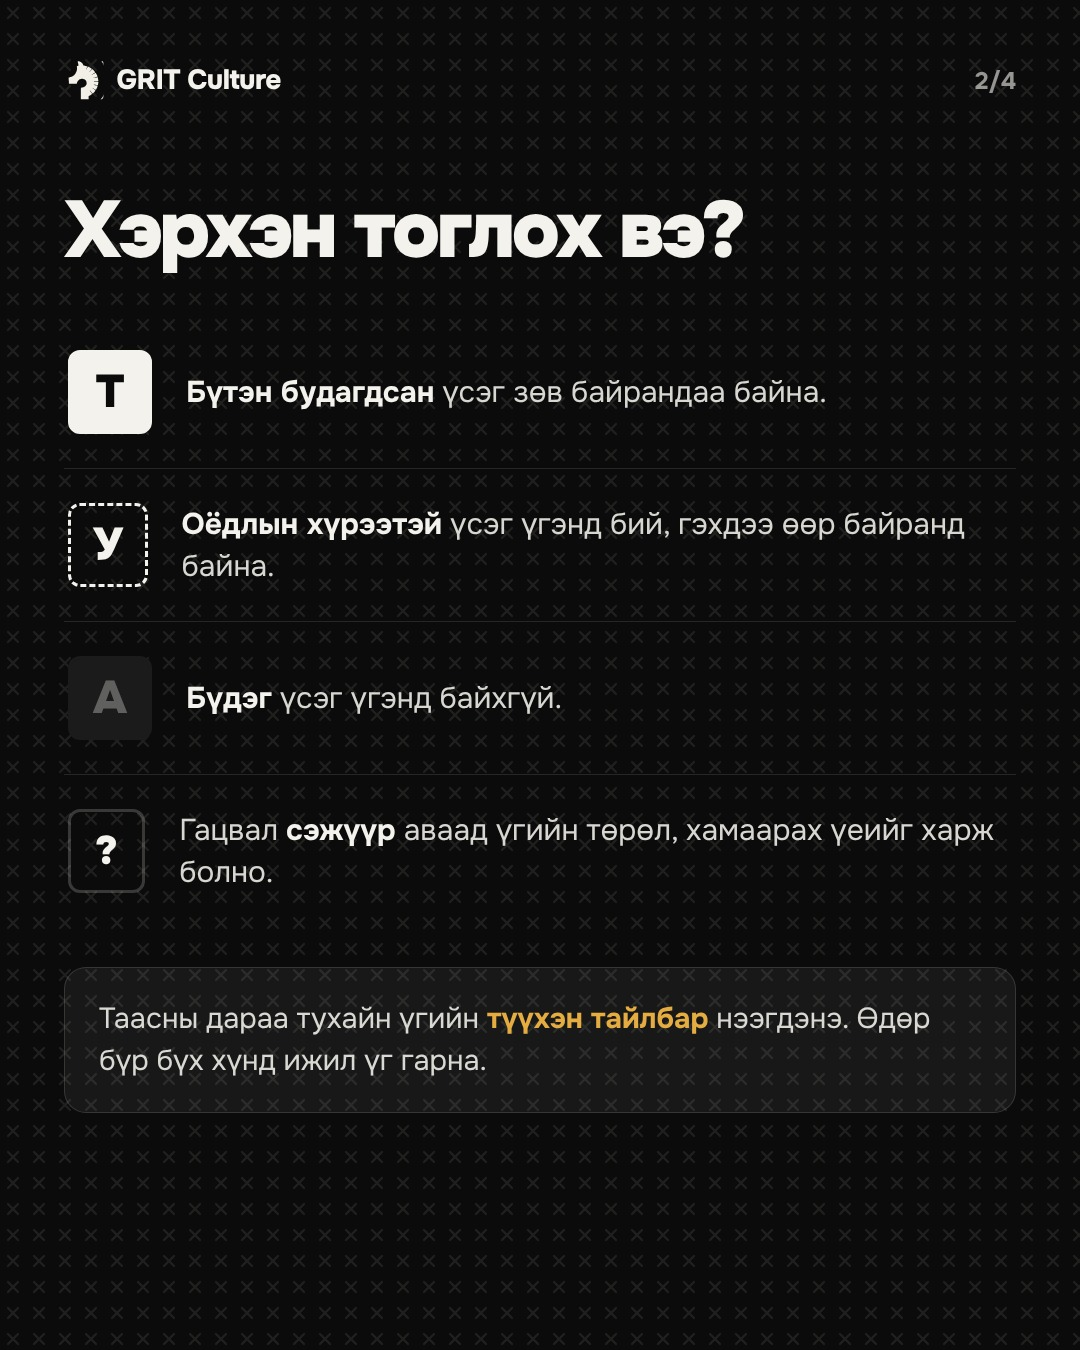
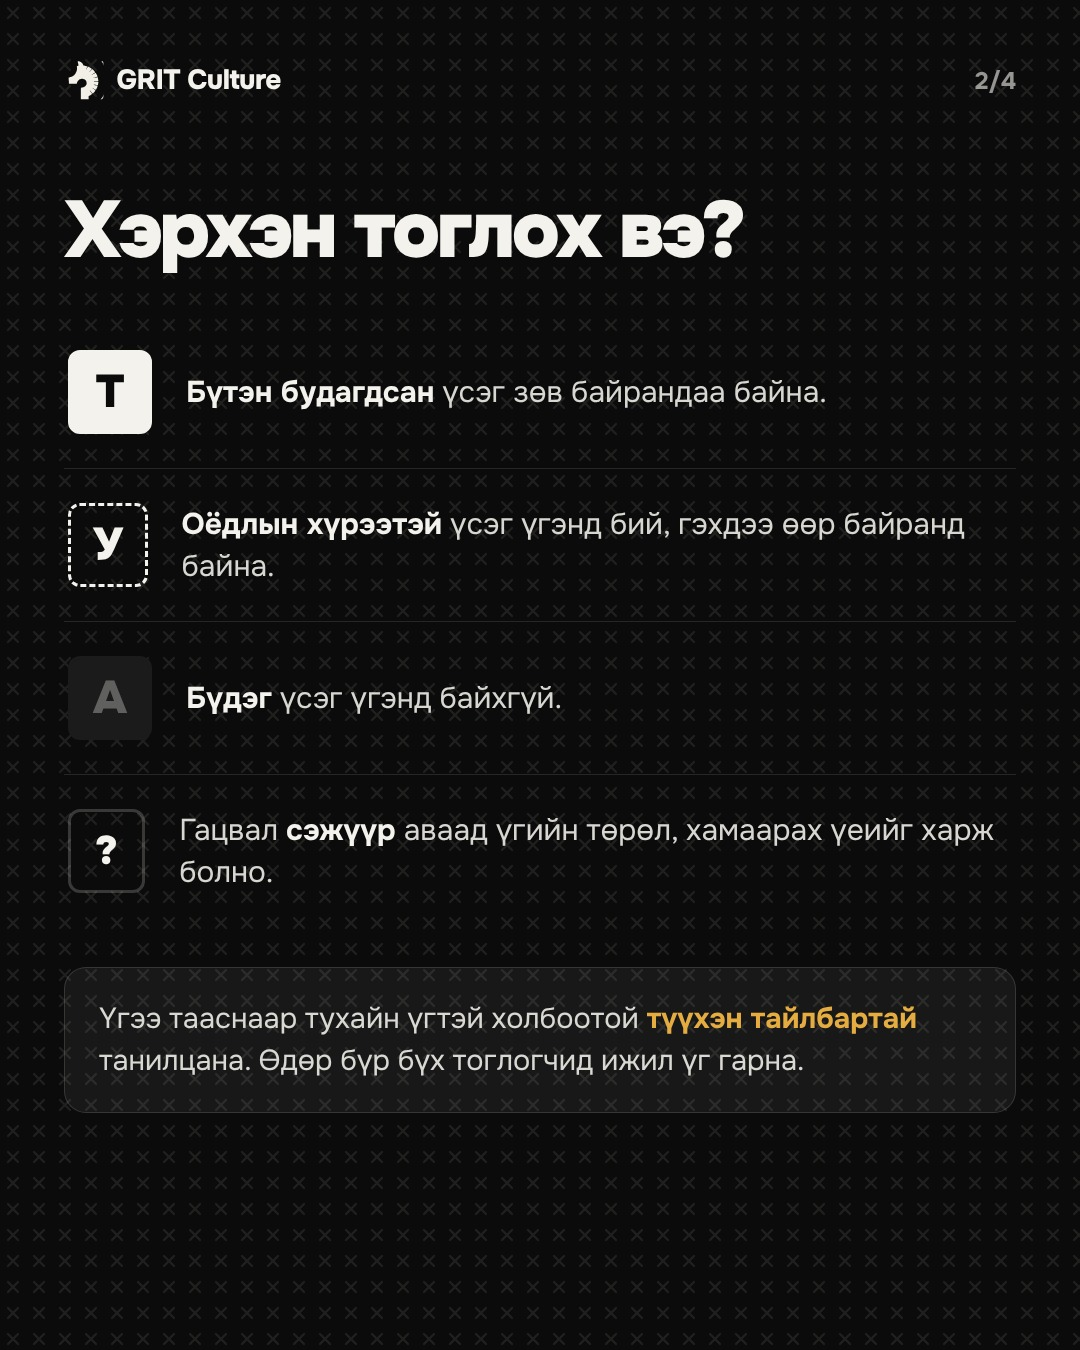
Taasan uu? promo: formal note text, game-style rank ladder, drop footer line
Claude-Session: https://claude.ai/code/session_013mTHg5jK5EjhttnQogVYog

Changed region(s): [[0.0917, 0.7467, 0.8556, 0.8089]]

diff --git a/social/taasan-promo/post.html b/social/taasan-promo/post.html
@@ -23,8 +23,8 @@ html,body{width:1080px;height:1350px;overflow:hidden;background:#000}
 .row:first-child{border-top:0}
 .row p{font-size:30px;line-height:1.4;color:rgba(244,242,237,.88)}
 .row b{color:#f4f2ed}
-.rk{display:flex;align-items:center;gap:24px;padding:11px 0}
-.rk .em{width:86px;height:86px;border-radius:22px;display:flex;align-items:center;justify-content:center;font-weight:900;font-size:27px;color:#140f05;flex:none}
+.rk{display:flex;align-items:center;gap:26px;padding:11px 0;border-top:1px solid rgba(244,242,237,.1)}.rk:first-child{border-top:0}
+.rk .em{width:72px;height:72px;border-radius:10px;display:flex;align-items:center;justify-content:center;font-weight:800;font-size:30px;flex:none;border:3px dashed rgba(244,242,237,.4);color:rgba(244,242,237,.5)}.rk.got .em{background:#f4f2ed;border:3px solid #f4f2ed;color:#0b0b0b}.rk.cur .em{outline:3px solid #f4f2ed;outline-offset:5px}.rk:not(.got) .nm,.rk:not(.got) .ds{opacity:.6}
 .rk .nm{font-weight:900;font-size:46px;letter-spacing:-.03em}
 .rk .ds{font-size:24px;color:rgba(244,242,237,.6);margin-top:4px}
 .ln{position:absolute;left:111px;width:3px;background:rgba(244,242,237,.15)}
@@ -40,7 +40,6 @@ html,body{width:1080px;height:1350px;overflow:hidden;background:#000}
     <div class="hd" style="font-size:104px;margin-top:30px">Таасан уу?</div>
     <div style="font-weight:700;font-size:40px;line-height:1.3;margin-top:22px;color:rgba(244,242,237,.9)">Таван үсэгтэй түүхэн үгийг<br>зургаан оролдлогоор таа.</div>
   </div>
-  <div style="position:absolute;left:64px;bottom:64px;font-weight:600;font-size:26px;color:rgba(244,242,237,.6)">Үнэ төлбөргүй · бүртгэлгүй &nbsp;→</div>
 </section>
 <!-- 2 how to play -->
 <section class="s" id="s2"><div class="xs"></div><div class="brand"><img src="icon-horse.svg"><span>GRIT Culture</span></div><div class="pg">2/4</div>
@@ -52,7 +51,7 @@ html,body{width:1080px;height:1350px;overflow:hidden;background:#000}
       <div class="row"><span class="t no sm">А</span><p><b>Бүдэг</b> үсэг үгэнд байхгүй.</p></div>
       <div class="row"><span class="t sm" style="font-size:40px">?</span><p>Гацвал <b>сэжүүр</b> аваад үгийн төрөл, хамаарах үеийг харж болно.</p></div>
     </div>
-    <div style="margin-top:40px;padding:30px 34px;border-radius:22px;background:rgba(244,242,237,.06);border:1px solid rgba(244,242,237,.14);font-size:29px;line-height:1.45;color:rgba(244,242,237,.88)">Таасны дараа тухайн үгийн <b style="color:#e5ad41">түүхэн тайлбар</b> нээгдэнэ. Өдөр бүр бүх хүнд ижил үг гарна.</div>
+    <div style="margin-top:40px;padding:30px 34px;border-radius:22px;background:rgba(244,242,237,.06);border:1px solid rgba(244,242,237,.14);font-size:29px;line-height:1.45;color:rgba(244,242,237,.88)">Үгээ тааснаар тухайн үгтэй холбоотой <b style="color:#e5ad41">түүхэн тайлбартай</b> танилцана. Өдөр бүр бүх тоглогчид ижил үг гарна.</div>
   </div>
 </section>
 <!-- 3 ranks -->
@@ -76,7 +75,7 @@ html,body{width:1080px;height:1350px;overflow:hidden;background:#000}
 </section>
 <script>
 const s=new URLSearchParams(location.search).get('s')||'1';
-const R=[['Цэрэг','·','#bdbdbd','#7d7d7d','Аравтын нэг гишүүн'],['Аравтын ноён','10','#e9946e','#c2643f','Арван цэргийг удирдагч'],['Зуутын ноён','100','#eef0f6','#a9adb9','Зуун цэргийг удирдагч'],['Мянгатын ноён','1000','#ffe08a','#d9a43a','Мянган цэргийг удирдагч'],['Түмэний ноён','10K','#8fe0aa','#2f7a49','Арван мянган цэргийг удирдагч'],['Хаан','♛','#ff9a86','#b8322a','Хамгийн дээд цол']];
-document.getElementById('ladder').innerHTML=R.map(r=>`<div class="rk"><div class="em" style="background:linear-gradient(160deg,${r[2]},${r[3]})">${r[1]}</div><div><div class="nm">${r[0]}</div><div class="ds">${r[4]}</div></div></div>`).join('');
+const R=[['Цэрэг','Эхлэл'],['Аравтын ноён','60 оноо · 15 өдөр'],['Зуутын ноён','250 оноо · 60 өдөр'],['Мянгатын ноён','600 оноо · 140 өдөр'],['Түмэний ноён','1000 оноо · 220 өдөр'],['Хаан','1300 оноо · 300 өдөр']];
+document.getElementById('ladder').innerHTML=R.map((r,k)=>`<div class="rk ${k<=1?'got':''} ${k===1?'cur':''}"><div class="em">${k+1}</div><div><div class="nm">${r[0]}</div><div class="ds">${r[1]}</div></div></div>`).join('');
 document.getElementById('s'+s).classList.add('on');
 </script></body></html>
